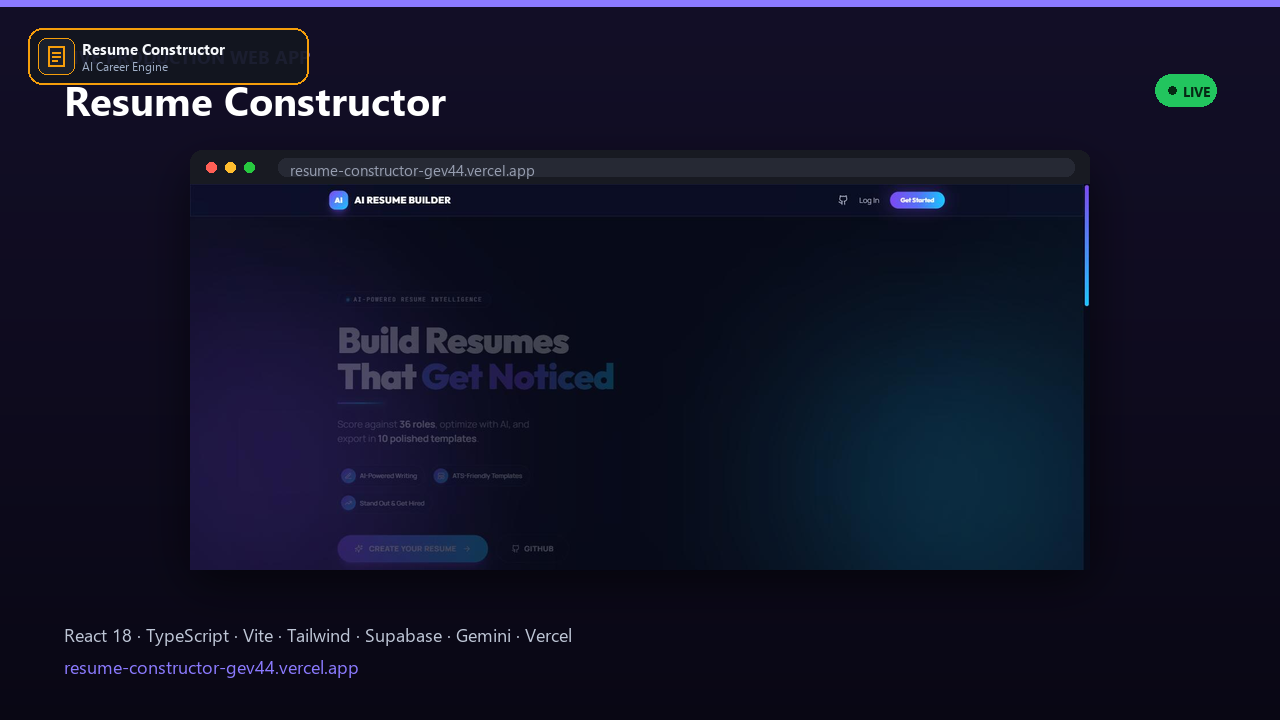
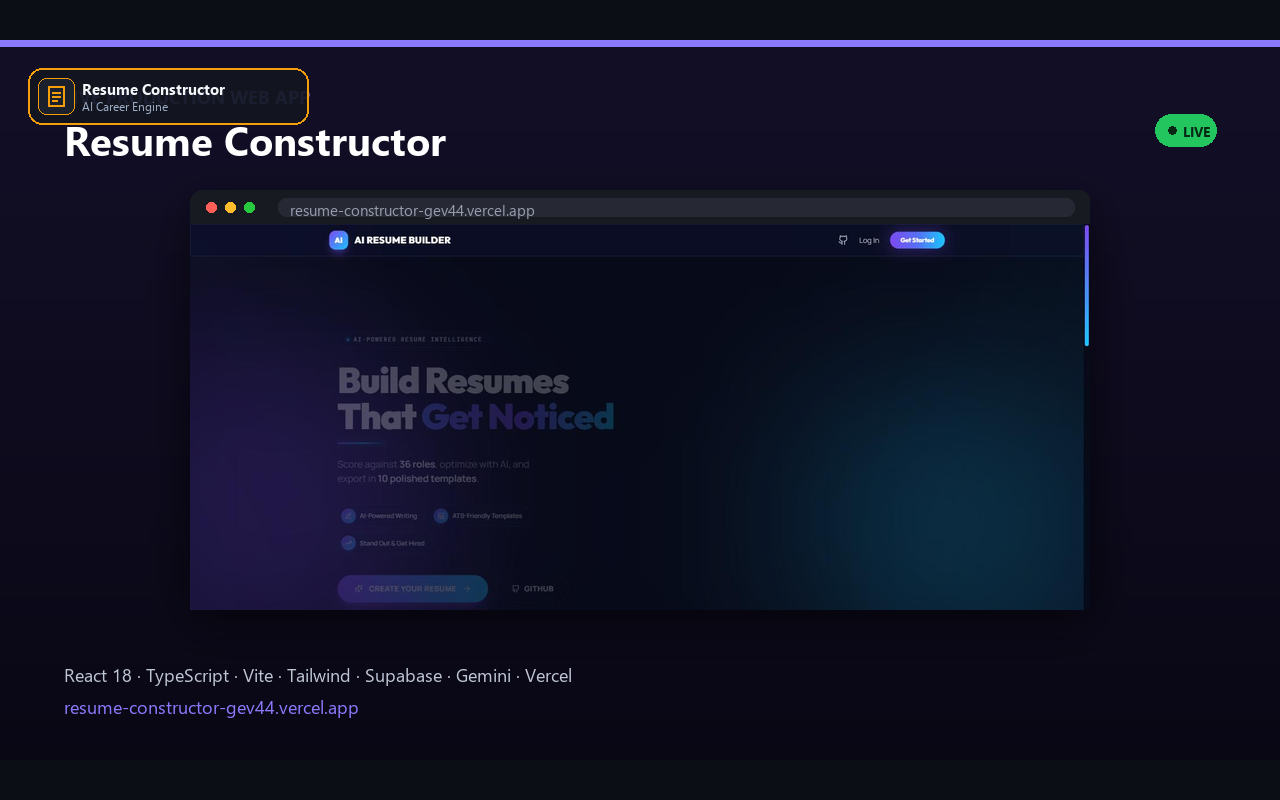
style: clean top action bar, fit all portfolio project images to exact 16:10 aspect ratio

diff --git a/index.html b/index.html
@@ -65,8 +65,8 @@ footer{margin:64px 0 36px;padding-top:26px;border-top:1px solid var(--line);colo
 <h1>I build <span class="gold">autonomous AI systems</span> &amp; <span>production pipelines</span> that save teams hours daily.</h1>
 <p class="lead">ML &amp; Systems Engineer. Production-grade real-estate radars, LLM pipelines with deterministic fallbacks, Telegram trading/booking bots, RAG citation engines, and computer vision from first principles in NumPy. Every system runs 24/7 with verified tests.</p>
 <div class="actions">
-<a class="cta gold" href="https://yourrealty.vercel.app/app">Open YourRealty Cloud Demo ↗</a>
 <a class="cta" href="https://t.me/hovhannisyan77">Message on Telegram</a>
+<a class="cta g" href="mailto:gev220705@gmail.com">Email Me</a>
 <a class="cta g" href="https://github.com/GEV44">GitHub Profile</a>
 <a class="cta g" href="https://www.fiverr.com/ghovhannisyan00">Fiverr Reviews</a>
 </div>
